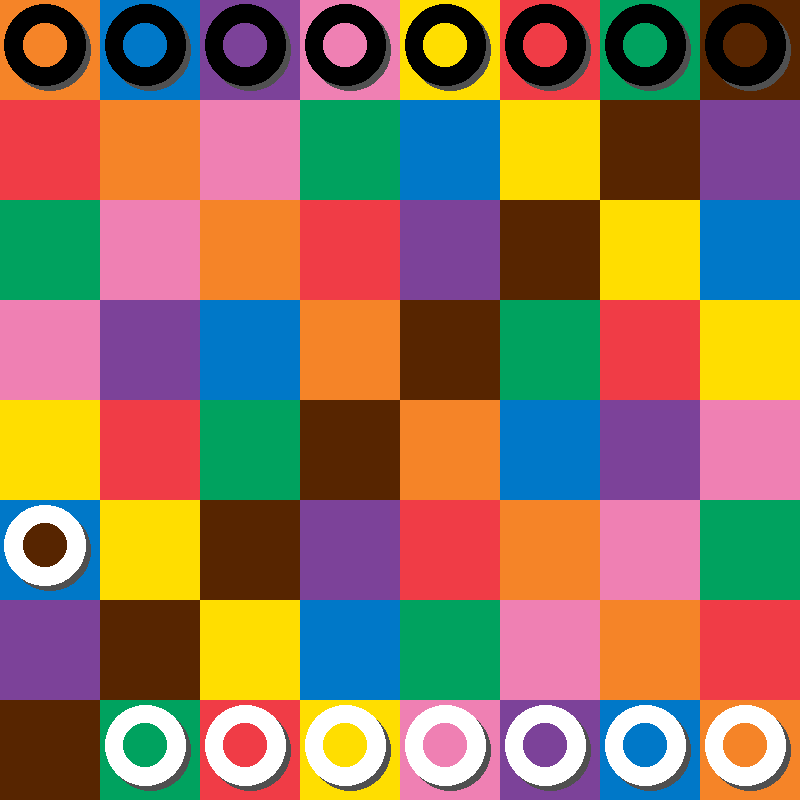
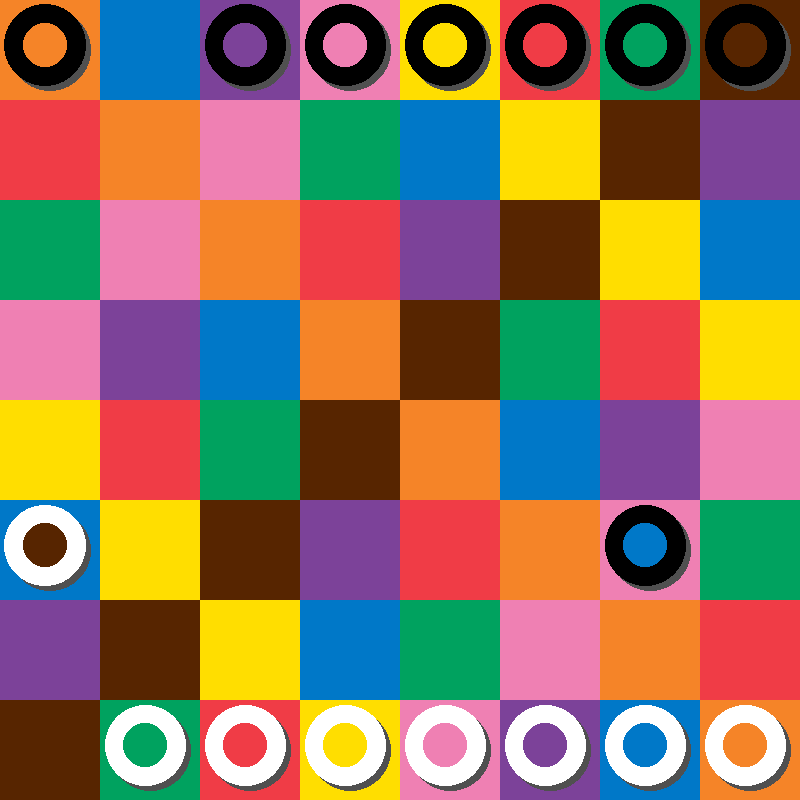
Board knows whose turn it is.

Changed region(s): [[0.75, 0.625, 0.875, 0.75], [0.125, 0.0, 0.25, 0.125]]

diff --git a/Board.py b/Board.py
@@ -3,8 +3,10 @@ import Stone
 
 class Board:
     board = []
+    turn = 0
 
     def __init__(self):
+        self.turn = -1
         for i in range(8):
             self.board.append([None, None, None, None, None, None, None, None])
 
@@ -16,16 +18,11 @@ class Board:
             self.board[0][7 - y] = Stone.Stone(y, 1)
             self.board[7][y] = Stone.Stone(y, -1)
 
-
-
-
-    def setStone(self, xy, stone):
-        self.board[xy[0]][xy[1]] = stone
-
     def isMoveLegal(self, fromXy, toXy, side):
         if (0 > fromXy[0] > 7 or 0 >fromXy[1] > 7 or 0 > toXy[0] > 7 or 0 > toXy[1] > 7):
-            # Illegal: Position out of bounds
-            return False
+            return [False, 'Position out of bounds']
+        if (self.turn != side):
+            return [False, 'Not your Turn']
 
         stone = self.board[fromXy[0]][fromXy[1]]
 
@@ -33,7 +30,7 @@ class Board:
             return [False, 'No Stone there']
         if (stone.side != side):
             return [False, 'Stone from wrong Side']
-        if (fromXy[0] >= side * toXy[0]):
+        if (fromXy[0] <= side * toXy[0]):
             return [False, 'Incorrect forward Movement']
         if (fromXy[1] != toXy[1]):
             if (abs(fromXy[1] - toXy[1]) != abs(fromXy[0] - toXy[0])):
@@ -58,13 +55,13 @@ class Board:
 
 
 
-    def moveStone(self, fromXy, toXy):
-        self.board[toXy[0]][toXy[1]] = self.board[fromXy[0]][fromXy[1]]
-        self.board[fromXy[0]][fromXy[1]] = None
+    def moveStone(self, fromXy, toXy, player):
+        moveLegal = self.isMoveLegal(fromXy, toXy, player)
+        if True:
+            self.board[toXy[0]][toXy[1]] = self.board[fromXy[0]][fromXy[1]]
+            self.board[fromXy[0]][fromXy[1]] = None
 
+            self.turn *= -1
+        else:
+            raise Exception("Move-Error: " + moveLegal[1])
 
-
-
-board = Board()
-
-print(board.board)

diff --git a/main.py b/main.py
@@ -4,7 +4,8 @@ import Board
 board = Board.Board()
 board.setupBoard()
 
-board.moveStone([7, 0], [5, 0])
+board.moveStone([7, 0], [5, 0], -1)
+board.moveStone([0, 1], [5, 6], 1)
 
 
 boardSize = 800
@@ -60,7 +61,7 @@ for x in range(8):
             stone = board.board[y][x]
             draw.ellipse([(x*cellSize + pieceBounding, y*cellSize + pieceBounding), ((x+1)*cellSize - pieceBounding, (y+1)*cellSize - pieceBounding)], fill=shadowColor)
             draw.ellipse([(x*cellSize + pieceBounding - shadowOffset, y*cellSize + pieceBounding - shadowOffset), ((x+1)*cellSize - pieceBounding - shadowOffset, (y+1)*cellSize - pieceBounding - shadowOffset)], fill=sideColors[stone.side])
-            draw.ellipse([(x*cellSize + colorBounding - shadowOffset, y*cellSize + colorBounding - shadowOffset), ((x+1)*cellSize - colorBounding - shadowOffset, (y+1)*cellSize - colorBounding - shadowOffset)], fill=setAlpha(colorPalette[stone.color], 255))
+            draw.ellipse([(x*cellSize + colorBounding - shadowOffset, y*cellSize + colorBounding - shadowOffset), ((x+1)*cellSize - colorBounding - shadowOffset, (y+1)*cellSize - colorBounding - shadowOffset)], fill=colorPalette[stone.color])
 
 del draw
 img.save('image.png')
